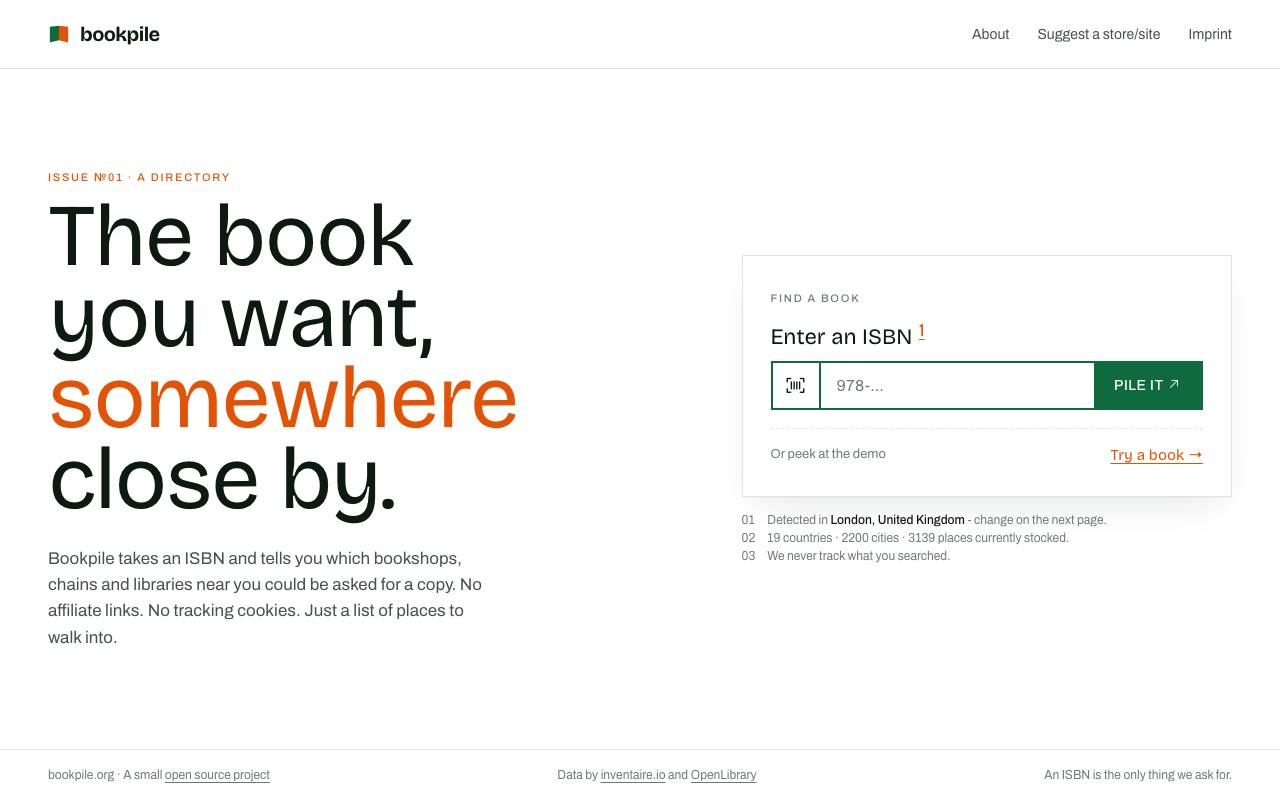
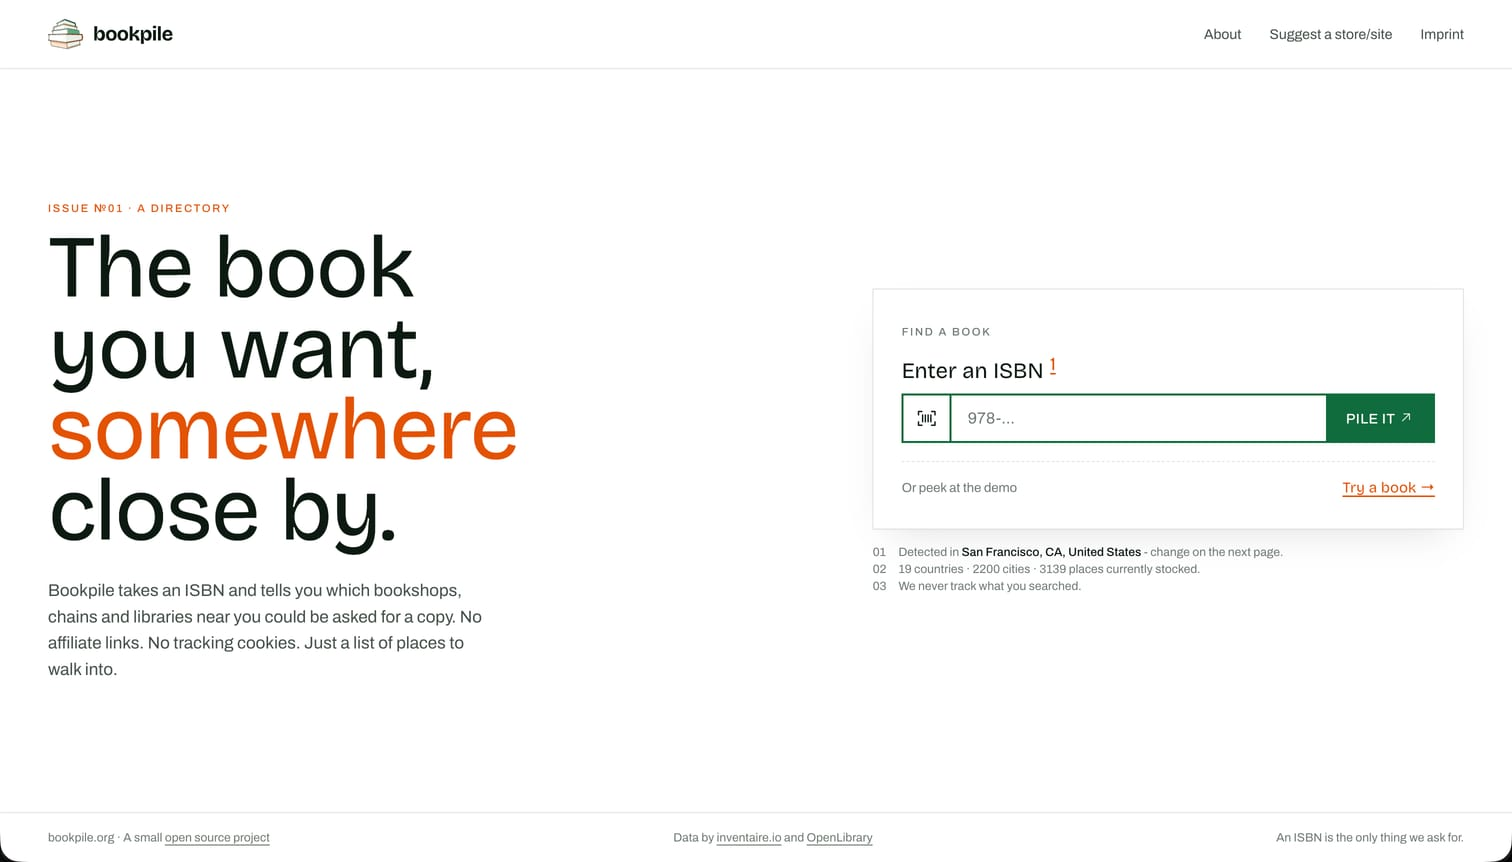
Update isochronic passage and change the detail view display dimensions

diff --git a/src/styles/site.css b/src/styles/site.css
@@ -123,10 +123,13 @@ main { max-width: 72rem; margin: 0 auto; }
 .detail .hero { position: relative; width: min(100%, 46rem); }
 .detail .mat { position: relative; padding: 1.3rem; background: var(--paper-2); border: 2px solid var(--rule); box-shadow: 8px 8px 0 var(--shadow); transform: rotate(-0.5deg); }
 .detail .pick { position: absolute; opacity: 0; pointer-events: none; }
-/* the stage never changes size; the frame inside it is one static object that changes shape */
-.detail .mat { --pw: 31%; } /* phone width: a 9:19.5 body filling the stage height */
-.detail .stage { position: relative; display: grid; place-items: center; width: 100%; aspect-ratio: 16 / 10.7; }
-.detail .frame { display: flex; flex-direction: column; width: 100%; height: 100%; overflow: hidden; padding: 2px; border: 0 solid var(--rule); border-radius: 5px; background: var(--rule); text-decoration: none; transition: width .35s ease, border-radius .35s ease, padding .35s ease; }
+/* the stage never changes size; the frame inside it is one static object that changes shape.
+   its height comes from a sizer: the app's own capture shape (--shot, set on the mat from the image's
+   dimensions) plus the title bar and the frame's 2px edges, so a landscape capture fits the screen exactly */
+.detail .mat { --pw: 31%; --shot: 1.6; } /* phone width: a 9:19.5 body filling the stage height */
+.detail .stage { position: relative; display: grid; grid-template-columns: 100%; place-items: center; width: 100%; }
+.detail .stage::before { content: ''; grid-area: 1 / 1; width: 100%; padding-top: calc(100% / var(--shot) + 1.6rem + 4px); }
+.detail .frame { grid-area: 1 / 1; display: flex; flex-direction: column; width: 100%; height: 100%; overflow: hidden; padding: 2px; border: 0 solid var(--rule); border-radius: 5px; background: var(--rule); text-decoration: none; transition: width .35s ease, border-radius .35s ease, padding .35s ease; }
 .detail .frame .bar { border-radius: 3px 3px 0 0; position: relative; flex: none; display: flex; align-items: center; gap: 0.25rem; height: 1.6rem; padding: 0 0.5rem; border-bottom: 2px solid var(--rule); font-size: 0.7rem; background: repeating-linear-gradient(180deg, transparent 0 3px, color-mix(in srgb, var(--rule) 22%, transparent) 3px 4px), var(--bar); transition: height .35s ease; }
 .detail .frame .bar i { width: 0.5rem; height: 0.5rem; border: 1.5px solid var(--rule); border-radius: 50%; background: var(--riso-pink); transition: opacity .2s; }
 .detail .frame .bar i:nth-child(2) { background: var(--riso-yellow); }
@@ -166,6 +169,7 @@ main { max-width: 72rem; margin: 0 auto; }
 .detail .thumbs label { width: 5.2rem; border: 2px solid var(--rule); border-radius: 3px; overflow: hidden; cursor: pointer; opacity: 0.6; transition: opacity .15s, transform .15s; }
 .detail .thumbs label:hover { opacity: 1; transform: translateY(-2px); }
 .detail .thumbs label.tall { width: 1.9rem; border-radius: 0.4rem; }
+.detail .thumbs label:not(.tall) .cover { aspect-ratio: var(--shot); }
 .detail .thumbs label.tall .cover { aspect-ratio: 9 / 19.5; }
 .detail .thumbs label.bare { border-color: transparent; border-radius: 0.5rem; }
 .detail .thumbs label.bare .cover { mix-blend-mode: multiply; transform: scale(1.42); transform-origin: 50% 42%; }

diff --git a/UPLOAD.md b/UPLOAD.md
@@ -20,7 +20,7 @@ opening image on the detail page. Up to 4 screenshots per app.
 - **We take our own.** Capture at 1280x800, 1x, JPEG, with headless Playwright (`chromium.launch()`, a 1280x800 context, `page.goto(url, { waitUntil: 'networkidle' })`, `page.screenshot({ type: 'jpeg', quality: 80 })`; `scripts/screenshot.mjs` is the same idea pointed at our own site).
 - **Show the app, not a popup.** Dismiss cookie banners, consent walls and "about" dialogs before capturing. Wait for slow pages to finish loading (Plein Air paints for a few seconds first).
 - **Capture the thing that makes it odd.** The default is the top of the page. If the interesting part is further down or after a click, capture that instead, and use the other slots for the rest.
-- **Shown cropped.** The window frame is 16:10 and crops from the top left, so keep what matters in the upper part of the capture. A wider capture (a Retina screenshot is usually 1.75:1) keeps its left edge, where sidebars and menus tend to be, and loses the right.
+- **Shown cropped on the index, whole on the detail page.** The index tile is 16:10 and crops from the top left, so keep what matters in the upper part of the capture. A wider capture (a Retina screenshot is usually 1.75:1) keeps its left edge there, where sidebars and menus tend to be, and loses the right. The detail page's window frame takes the shape of the app's first landscape capture (between 4:3 and 2:1), so nothing is cropped there; keep an app's browser captures the same size so they all fit.
 - **Title bar text is derived**, never written: the domain of `url` without `www.` on the index (`walzr.com`), domain plus path on the detail page.
 - A phone-width capture of a website (390px wide) counts as a mobile screenshot and gets the phone frame.
 
